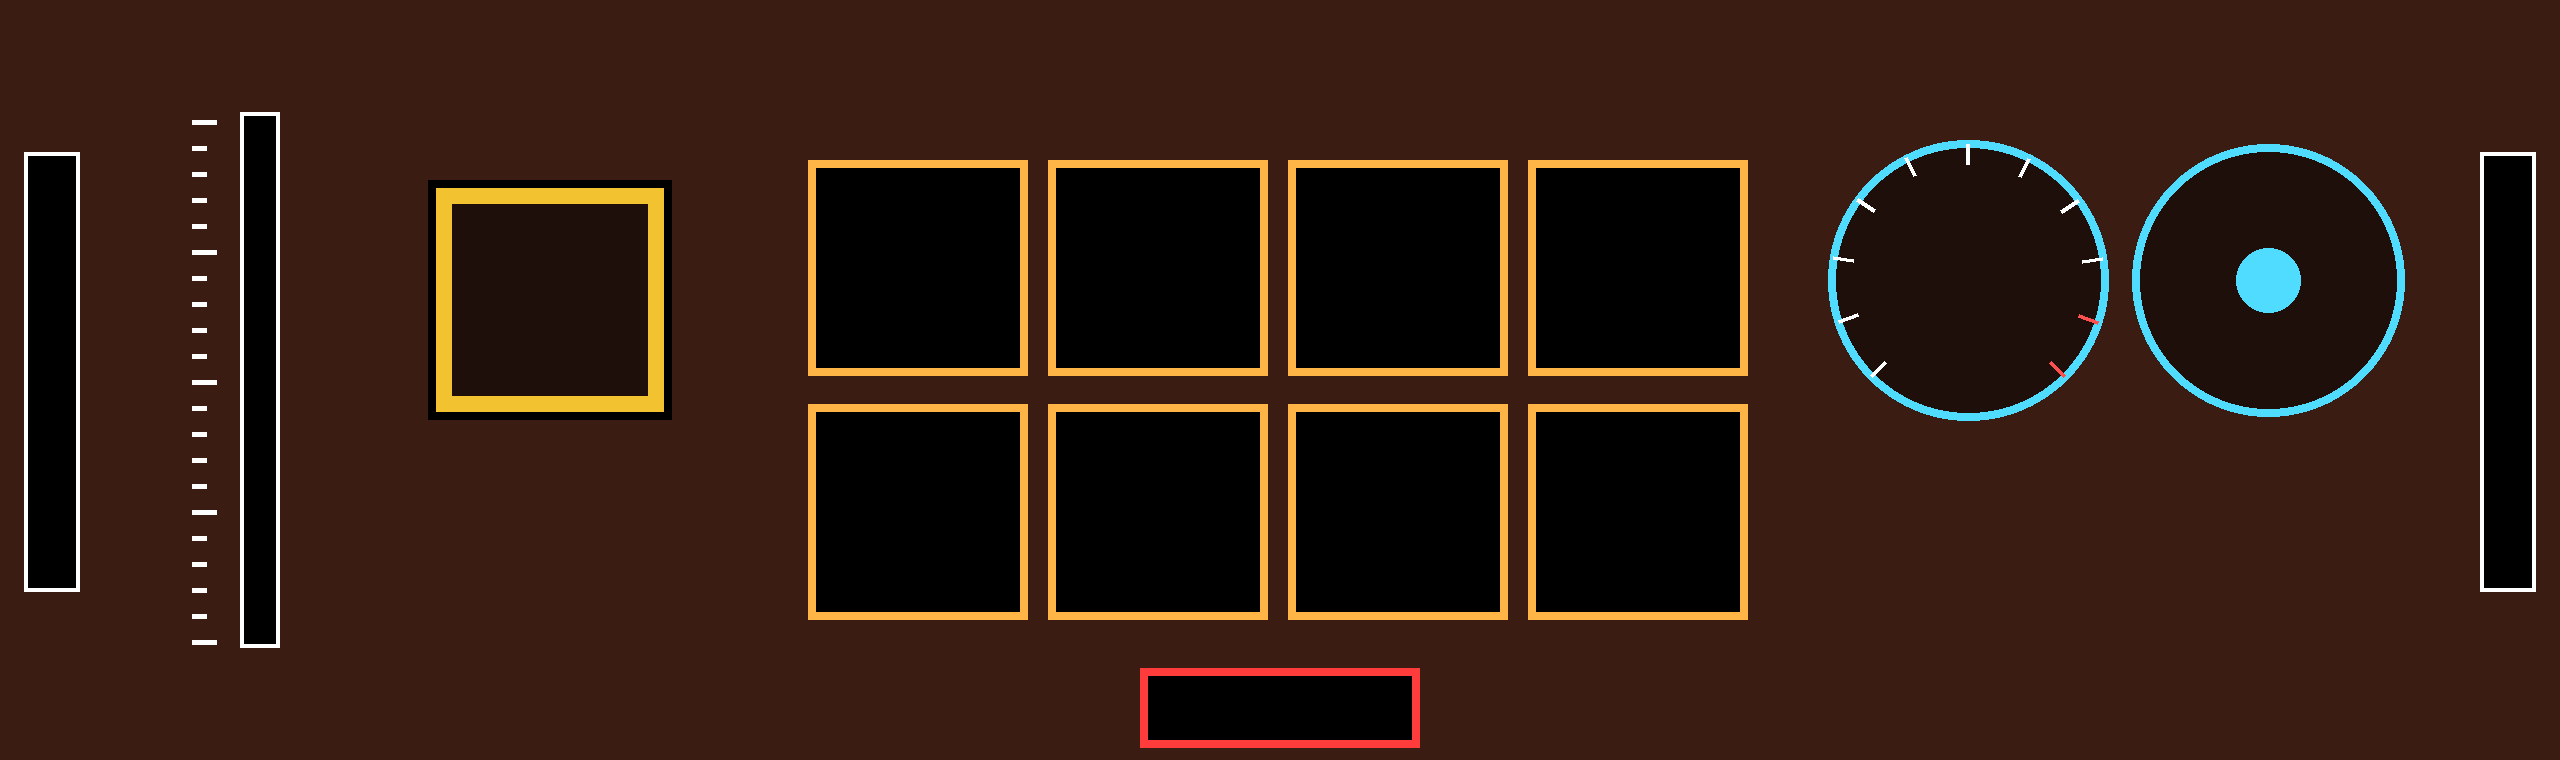
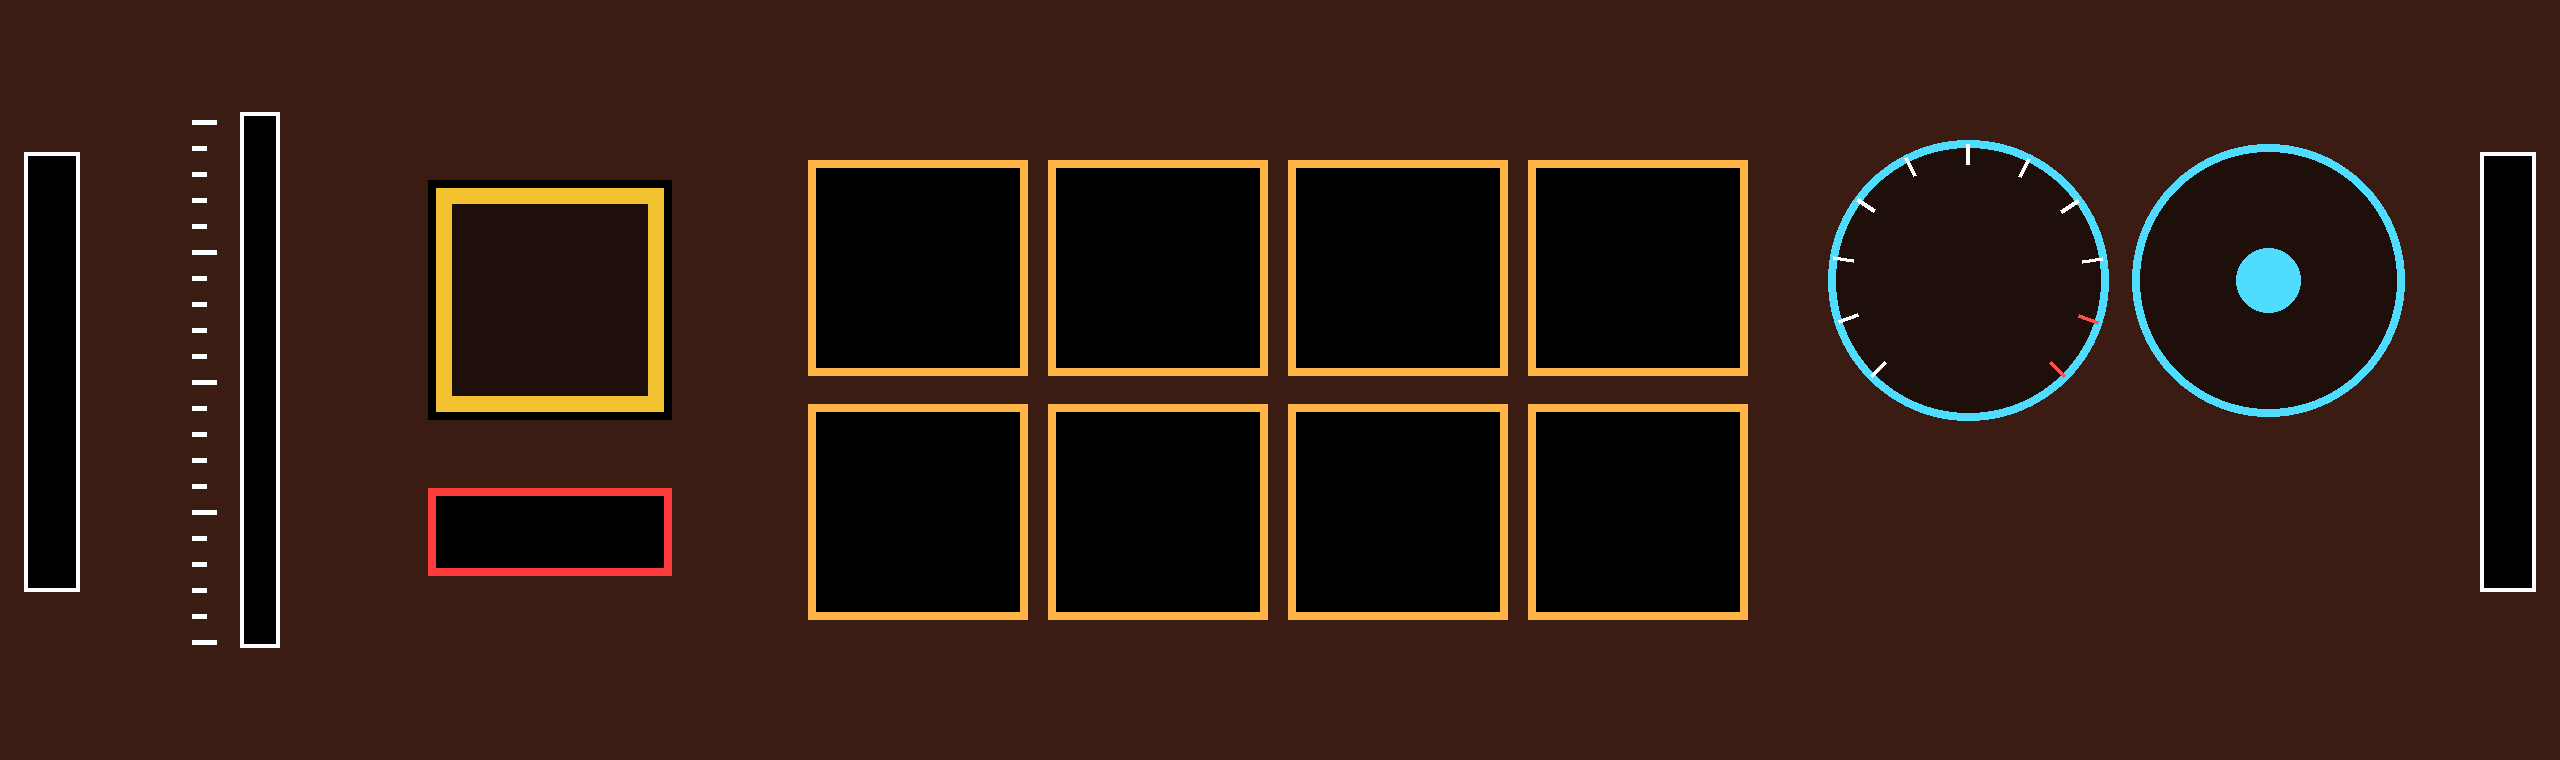
Move the abandon button under SCRAM
The empty space below SCRAM on the left plate now holds the abandon box
(same width as SCRAM); the two-lever + cover + button sequence is
unchanged. Title help, README, desk layout guide and desk v2 prompt
follow the new spot.

Claude-Session: https://claude.ai/code/session_01EPsGy57iYU9hi3Xu7aD2aY

Changed region(s): [[0.4375, 0.8776, 0.5625, 0.9987], [0.1562, 0.6355, 0.2812, 0.7566]]

diff --git a/src/ui/overlays.ts b/src/ui/overlays.ts
@@ -35,7 +35,7 @@ export class TitleOverlay extends Container {
       '',
       '제어봉 레버 Q/A · 냉각 펌프 W/S · 터빈 밸브 E/D · SCRAM X(두 번: 덮개 → 버튼)',
       '해결 모듈은 슬롯을 클릭해서 사용 · Space 일시정지 (일시정지 중 모듈 드래그로 재배치)',
-      '포기: 책상 양 끝 레버 두 개를 당기고 → 가운데 아래 덮개 → 버튼',
+      '포기: 책상 양 끝 레버 두 개를 당기고 → SCRAM 아래 덮개 → 버튼',
     ].join('\n'), 15, C.text, { align: 'center', lineHeight: 24 });
     help.anchor.set(0.5, 0);
     help.position.set(W / 2, 300);

diff --git a/src/ui/desk.ts b/src/ui/desk.ts
@@ -15,7 +15,8 @@ const SLOT = { x: 404, y: 420, w: 110, h: 108, gapX: 10, gapY: 14 };
 /** 포기 레버는 책상 양 끝의 홈(원본 x 6~20, y 38~148)에 들어간다 */
 const ABANDON_LEVERS = [{ x: 26, side: 'L' }, { x: W - 26, side: 'R' }] as const;
 const ABANDON_TRACK = { top: 416, bottom: 636 };
-const ABANDON_BOX = { x: 570, y: 674, w: 140, h: 40 };
+/** 포기 버튼은 SCRAM 바로 아래 빈 공간 (SCRAM과 같은 폭) */
+const ABANDON_BOX = { x: 215, y: 584, w: 120, h: 44 };
 
 const DIAL_MIN = -225 * Math.PI / 180, DIAL_MAX = 45 * Math.PI / 180;
 

diff --git a/docs/art-prompts.md b/docs/art-prompts.md
@@ -153,7 +153,7 @@ No numbers, no text.
 | 주황 테두리 8칸 | 모듈 슬롯 소켓 (지금 그림 그대로) | 202+60c, 40 / 101, 55×54 | 31.6% ~ 76.1% | 21.1% ~ 81.6% |
 | 하늘색 원 (왼쪽) + 눈금 | 냉각 펌프 **다이얼 판**: 7시 반 → 4시 반 방향 270° 눈금 11개, 마지막 2개 빨강 (손잡이 없음) | 중심 492, 70, 반지름 35 | 71.4% ~ 82.3% | 18.4% ~ 55.3% |
 | 하늘색 원 (오른쪽) + 가운데 점 | 터빈 밸브 **휠 받침**: 둥근 받침판과 가운데 축 (휠 없음) | 중심 567, 70, 반지름 34 | 83.3% ~ 93.9% | 18.9% ~ 54.7% |
-| 빨간 테두리 사각형 (가운데 아래) | 포기 버튼 **상자**: 경고 줄무늬 테두리의 작은 검은 상자 (버튼·덮개 없음) | 285, 167, 70×20 | 44.5% ~ 55.5% | 87.9% ~ 98.4% |
+| 빨간 테두리 사각형 (SCRAM 바로 아래) | 포기 버튼 **상자**: 경고 줄무늬 테두리의 작은 검은 상자 (버튼·덮개 없음) | 107, 122, 61×22 | 16.7% ~ 26.3% | 64.2% ~ 75.8% |
 | 양 끝 흰 테두리 막대 | 포기 레버 홈 (지금 그림 그대로) | 6 / 620, 38, 14×110 | 0.9% ~ 3.1% / 96.9% ~ 99.1% | 20% ~ 77.9% |
 
 - 가이드의 색깔 선(흰색·노랑·주황·하늘색·빨강)은 위치 표시일 뿐이니 **그대로 그리지 않는다.**
@@ -167,7 +167,7 @@ and add the FIXED bases of the controls, placed exactly where the attached layou
 - Left plate, right of the rail: a square emergency button housing with a yellow-and-black diagonal hazard stripe border and a dark empty recess inside. No button, no cover.
 - Right plate, left: a round dark dial plate with 11 tick marks on a 270-degree arc from the 7:30 position clockwise to the 4:30 position; the last two ticks red. No knob.
 - Right plate, right: a round bolted mounting plate with a short central axle hub for a valve handwheel. No wheel.
-- Bottom center, below the sockets: a small wide black box with a yellow-and-black hazard border. No button, no cover.
+- Left plate, directly below the emergency button housing and the same width: a small wide black box with a yellow-and-black hazard border. No button, no cover.
 Do not draw any moving parts (handles, knobs, wheels, buttons, covers). Do not draw the colored guide lines. No text.
 ```
 

diff --git a/README.md b/README.md
@@ -50,7 +50,7 @@ git push --follow-tags   # 태그가 올라가면 Release가 자동으로 만들
 | X 두 번 또는 클릭 두 번 | SCRAM (덮개 → 버튼) |
 | 해결 모듈 클릭 | 모듈 사용 (일회용) |
 | Space | 일시정지 (일시정지 중 모듈 드래그로 재배치) |
-| 책상 양 끝 레버 2개 → 가운데 아래 덮개 → 버튼 | 포기 |
+| 책상 양 끝 레버 2개 → SCRAM 아래 덮개 → 버튼 | 포기 |
 
 ## 사용한 글꼴
 
